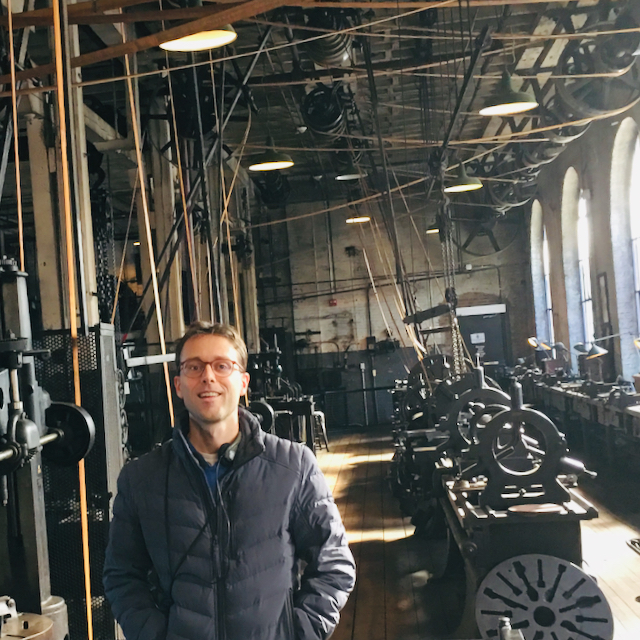
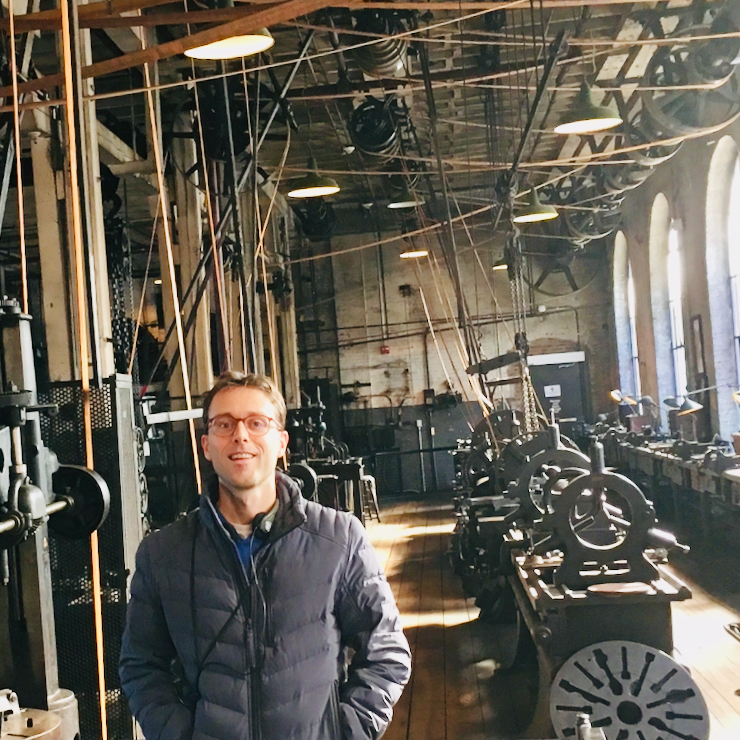
new pics!

diff --git a/bio.md b/bio.md
@@ -4,6 +4,8 @@ title: bio
 permalink: /bio/
 ---
 
+![](/assets/ryan.jpg)
+
 I worked as engineer on a couple FAA and Navy projects from 2011 to 2013, then on the radio for Parker Solar Probe from 2014 to 2017. I began a PhD program in history of science and technology in 2017 to better understand engineering and technology in the United States.
 
 I live in Columbia, MD, with Lauren and [Little Bear](/assets/little-bear.jpg).

diff --git a/publications.md b/publications.md
@@ -4,4 +4,6 @@ title: publications
 permalink: /publications/
 ---
 
+![](/assets/bethlehem2019.jpg)
+
 I don't have any yet. Check back soon!
